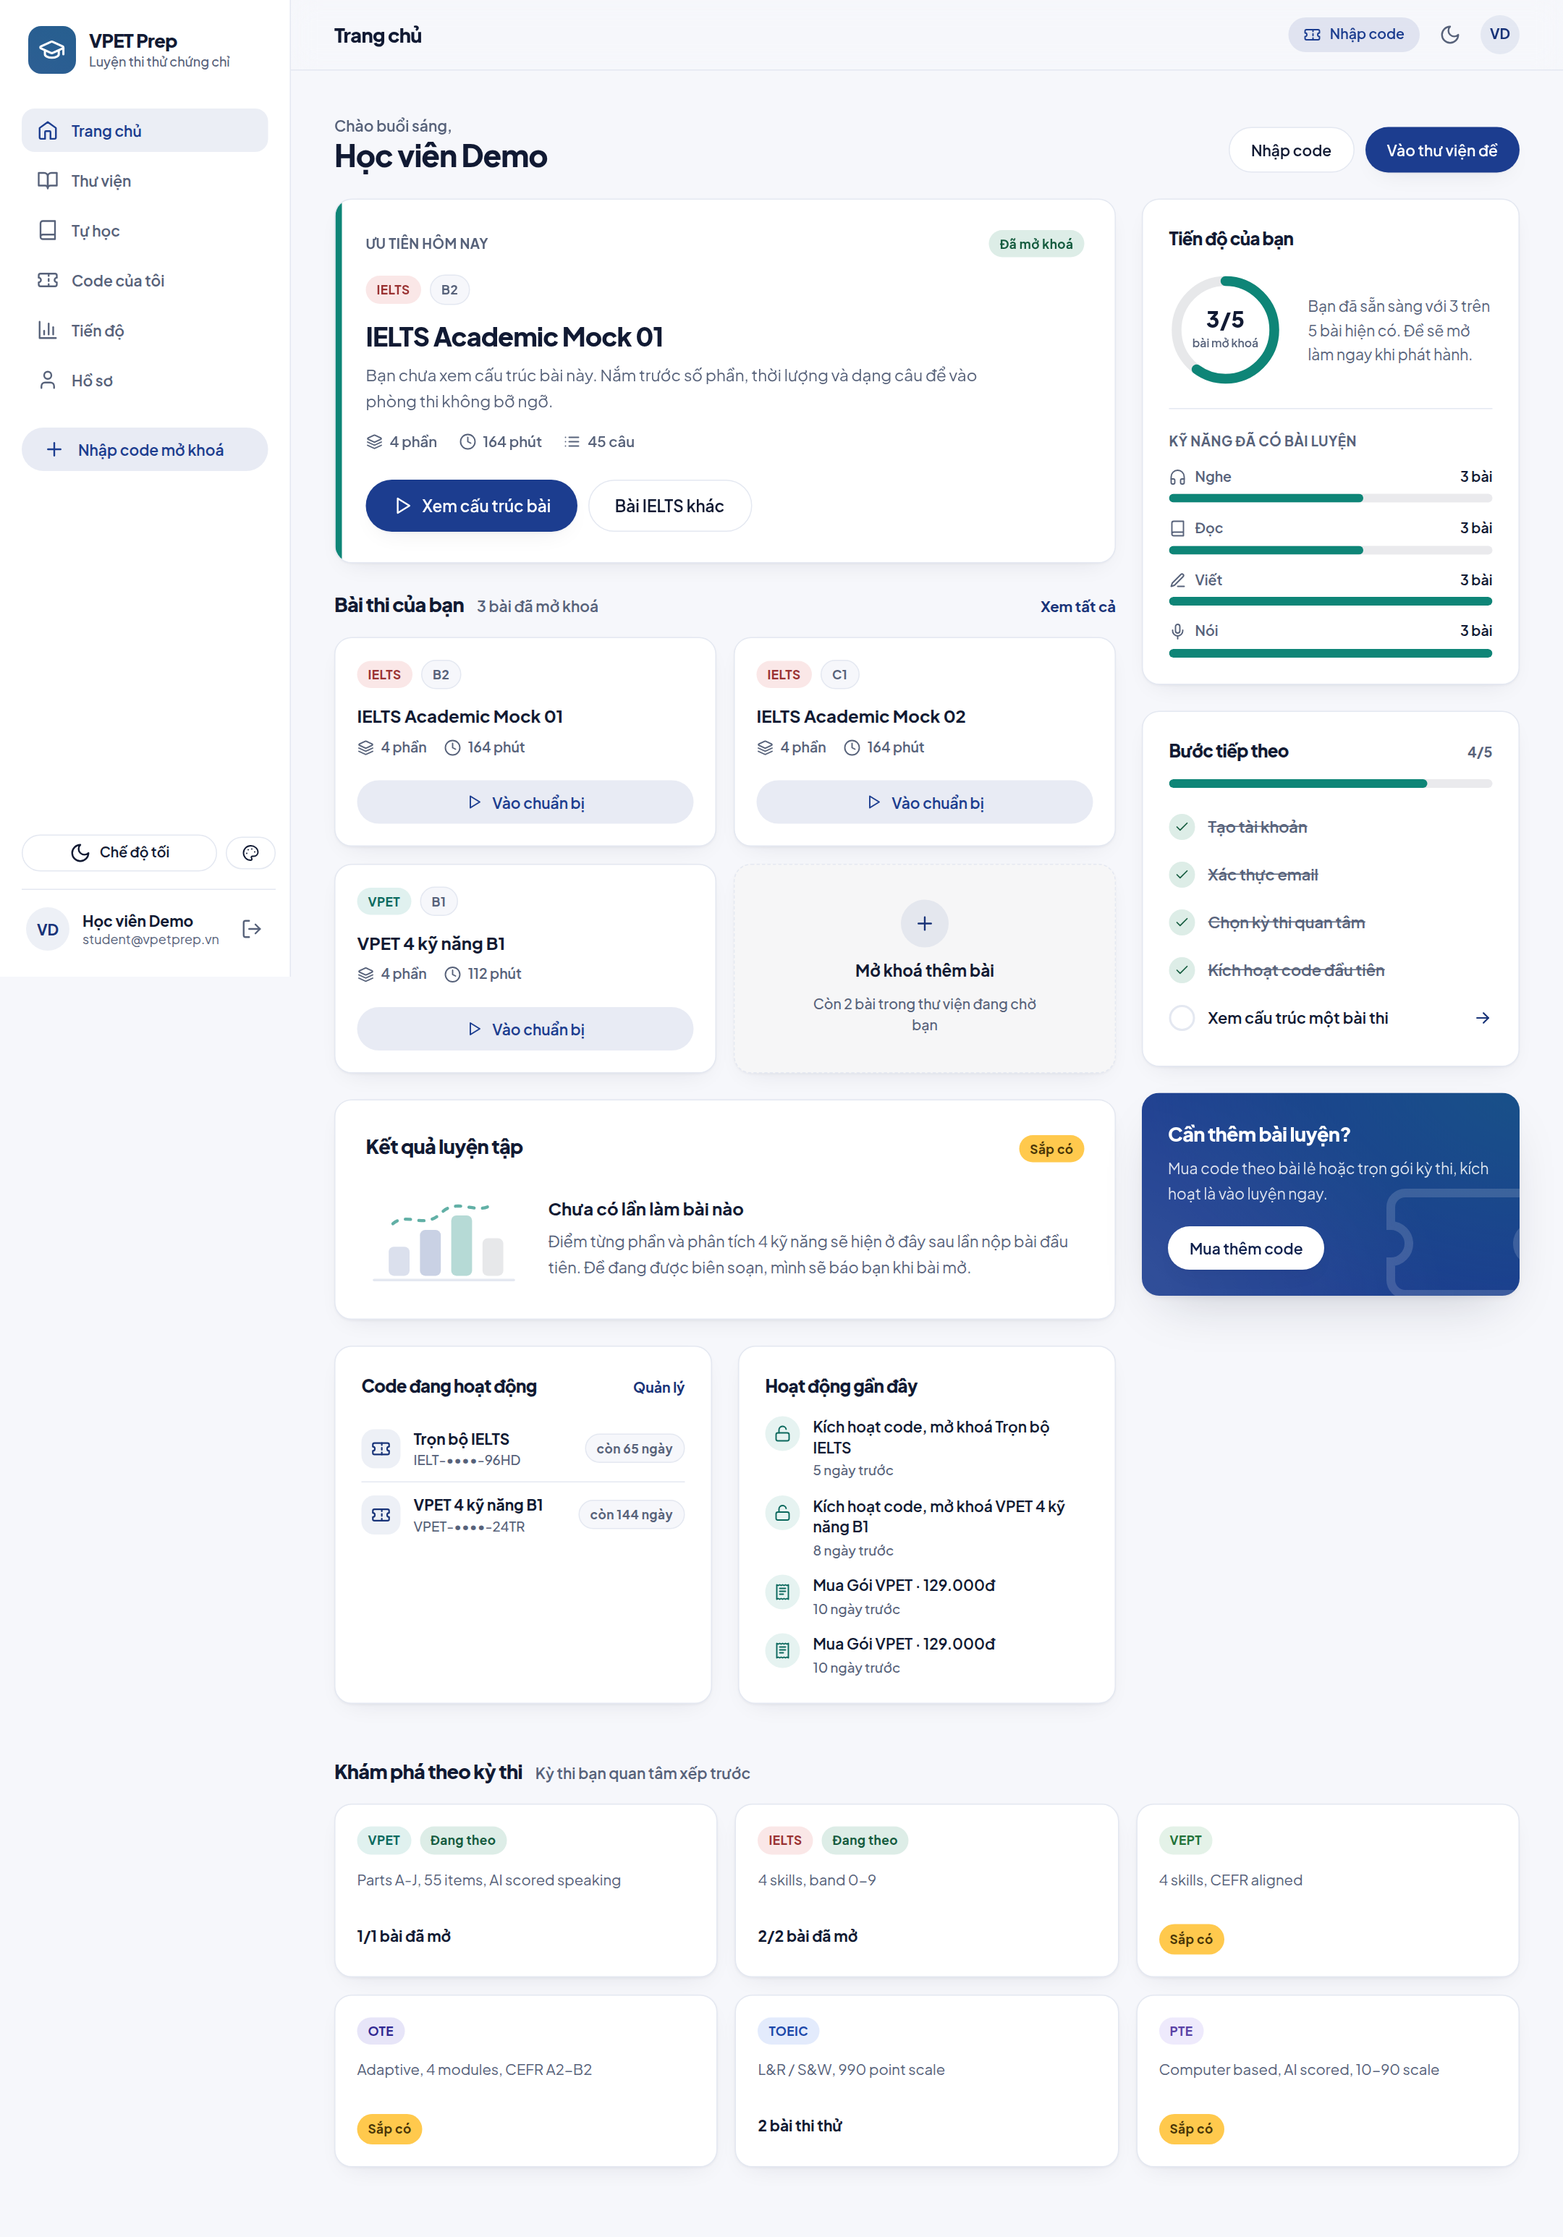
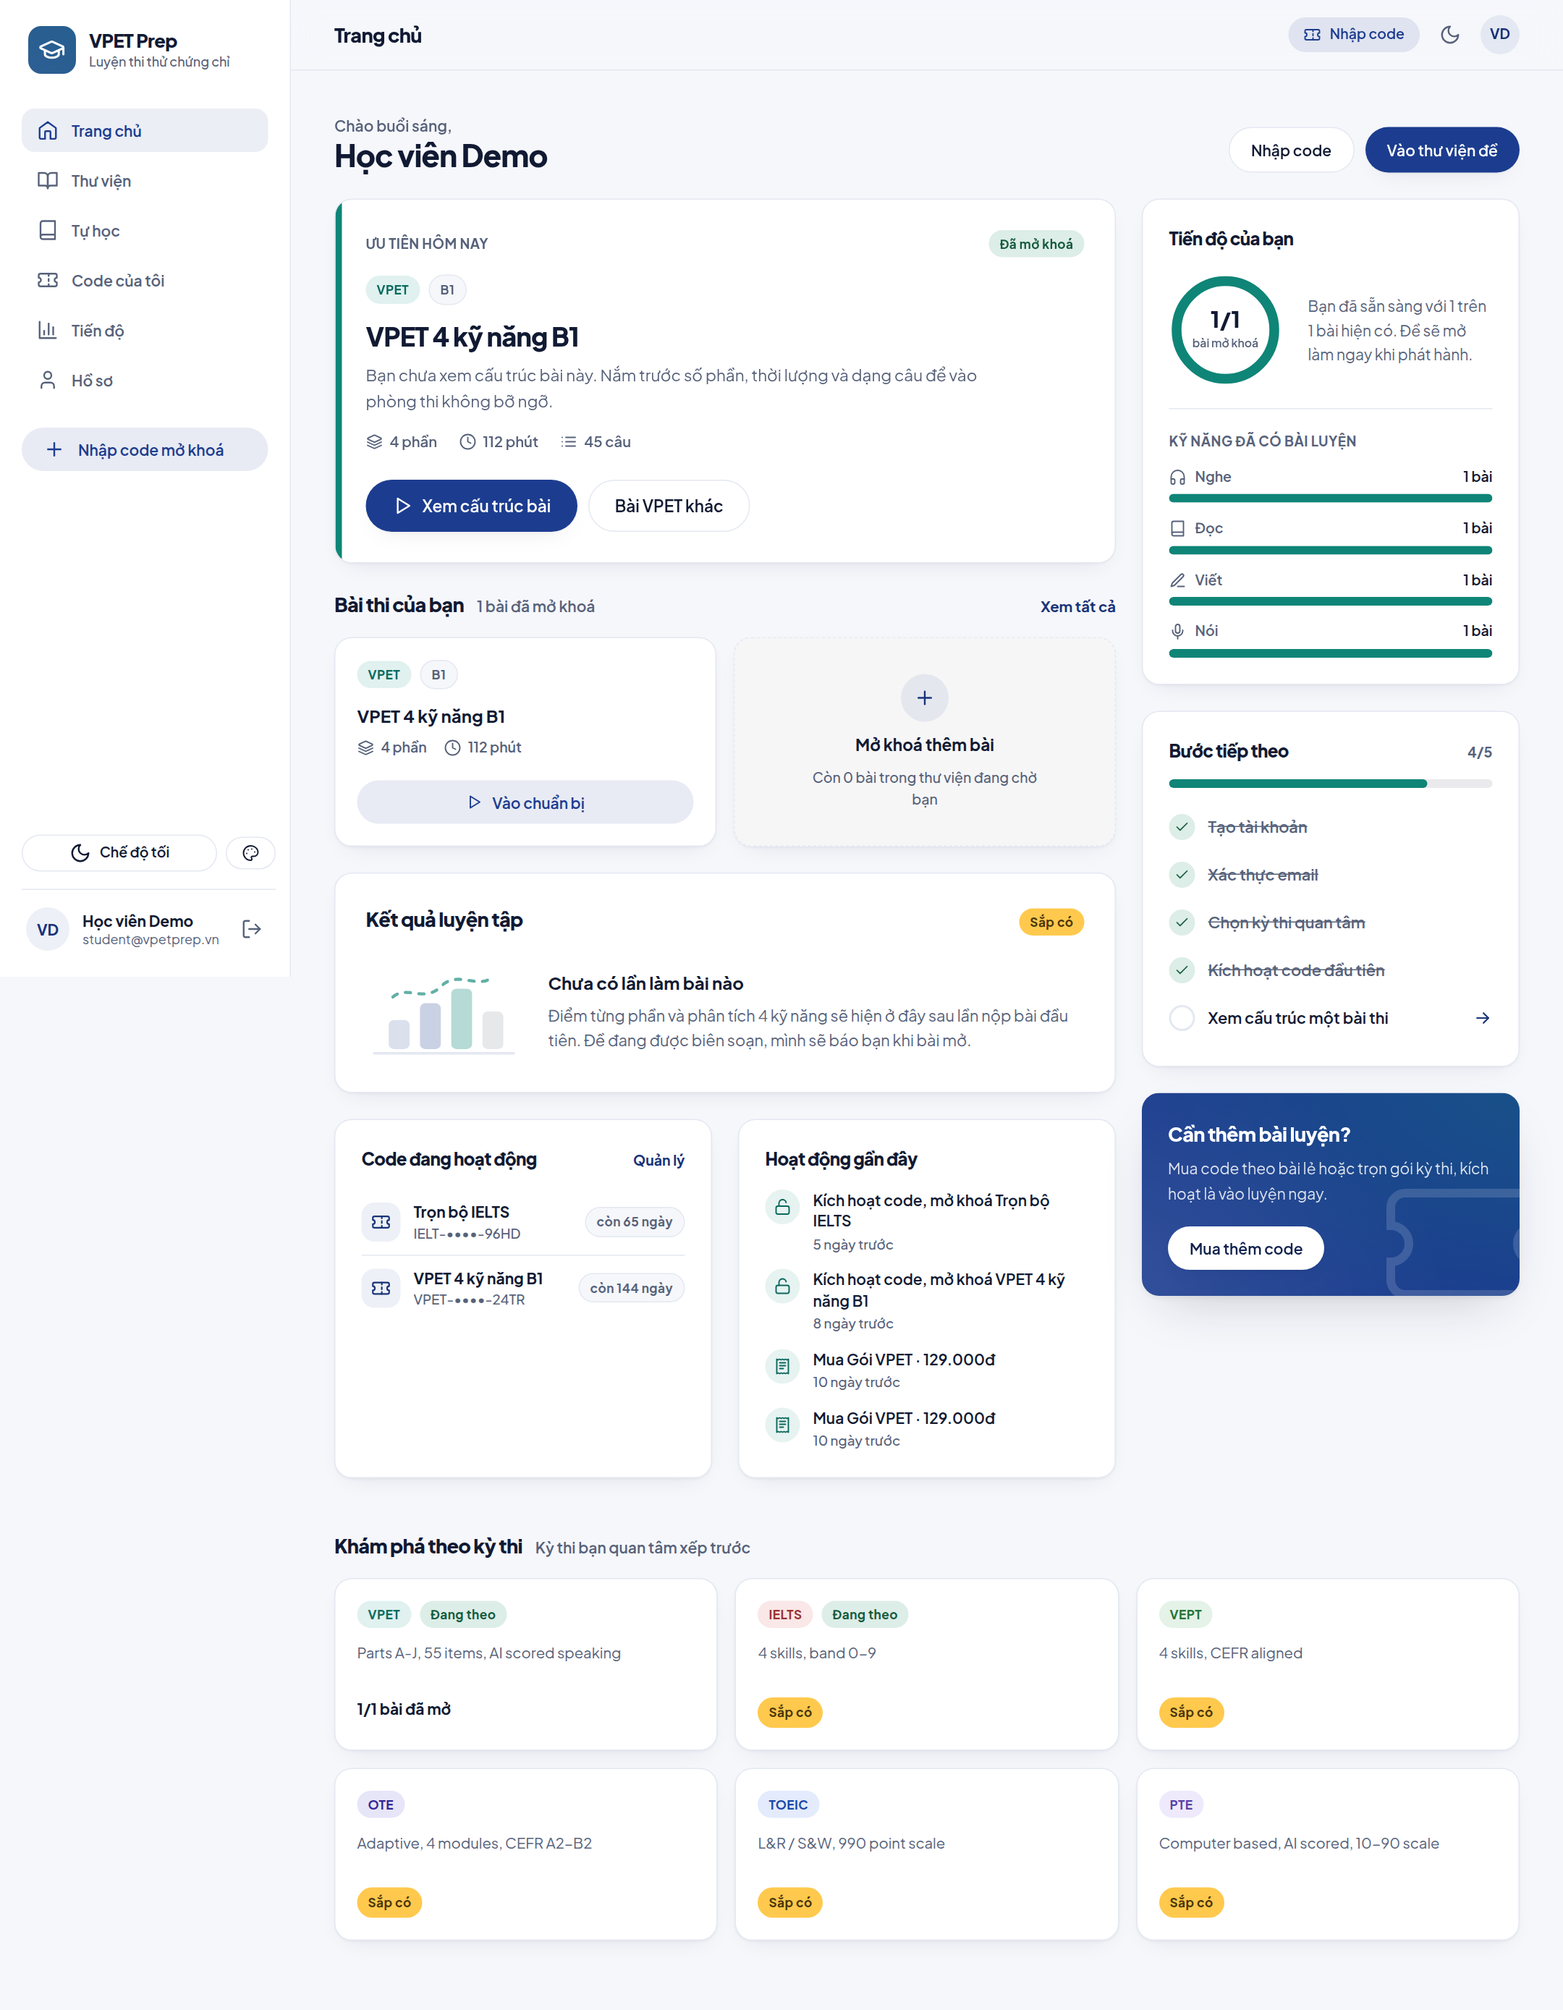
Stop offering anything from a parked exam family
Parking the five non-VPET families gave them a flag but nothing enforced it, so
their tests were still published, still in the student catalogue and still for
sale. The flag is now enforced in four places:

- Seeded IELTS and TOEIC tests start as drafts rather than published.
- On boot, any published test belonging to a parked family is pulled back to
  draft, with a console warning. Seeds only run against an empty table, so
  without this an existing database would keep serving tests published before
  the family was parked - the exact thing parking was meant to stop.
- POST /admin/tests/:id/status refuses to publish a test from a parked family,
  and says which file to edit to open the family.
- Packages for parked families are deactivated, so the shop cannot take money
  for an unlock that resolves to nothing. Reversible on purpose: opening a
  family reactivates its package, so this is a rule that holds in both
  directions rather than a one-way switch.

Codes already issued are deliberately untouched. Someone holding a pre-paid
IELTS code keeps the entitlement and the tests appear for them the day IELTS
opens; parking stops new sales, it does not confiscate what was bought.

The admin dashboard no longer raises "people are interested but there is
nothing to sell" for parked families - having no published test is the
intended state there, not a job to chase.

One test went red and it was right to: redeeming the seeded IELTS family code
[…]

diff --git a/server/db.js b/server/db.js
@@ -389,27 +389,27 @@ const SEED_TESTS = [
            'Bài Viết và Nói được chấm tự động, trả kết quả kèm nhận xét.'],
     sections:[['Listening','listening','Trắc nghiệm',25],['Reading','reading','Trắc nghiệm',35],
               ['Writing','writing','Tự luận',40],['Speaking','speaking','Ghi âm',12]] },
-  { id:'ielts-ac-01', family:'ielts', title:'IELTS Academic Mock 01', level:'B2', dur:164, status:'published',
+  { id:'ielts-ac-01', family:'ielts', title:'IELTS Academic Mock 01', level:'B2', dur:164, status:'draft',
     scoring:'Band 0-9, làm tròn 0.5',
     guide:['Phần Nghe chỉ phát 1 lần, hãy đọc trước câu hỏi.',
            'Writing Task 2 chiếm 2/3 điểm phần Viết.',
            'Speaking mô phỏng phỏng vấn 3 part, trả lời theo đồng hồ.'],
     sections:[['Listening','listening','Trắc nghiệm + điền từ',30],['Reading','reading','Đọc hiểu học thuật',60],
               ['Writing','writing','Task 1 + Task 2',60],['Speaking','speaking','3 part, ghi âm',14]] },
-  { id:'ielts-ac-02', family:'ielts', title:'IELTS Academic Mock 02', level:'C1', dur:164, status:'published',
+  { id:'ielts-ac-02', family:'ielts', title:'IELTS Academic Mock 02', level:'C1', dur:164, status:'draft',
     scoring:'Band 0-9, làm tròn 0.5',
     guide:['Đề nâng cao: từ vựng học thuật dày hơn Mock 01.',
            'Phân bổ 20 phút cho mỗi passage phần Đọc.',
            'Speaking part 3 hỏi sâu quan điểm, luyện trả lời có cấu trúc.'],
     sections:[['Listening','listening','Trắc nghiệm + điền từ',30],['Reading','reading','Đọc hiểu học thuật',60],
               ['Writing','writing','Task 1 + Task 2',60],['Speaking','speaking','3 part, ghi âm',14]] },
-  { id:'toeic-lr-01', family:'toeic', title:'TOEIC Listening & Reading 01', level:'B1', dur:120, status:'published',
+  { id:'toeic-lr-01', family:'toeic', title:'TOEIC Listening & Reading 01', level:'B1', dur:120, status:'draft',
     scoring:'Thang 10-990 (mỗi phần 5-495)',
     guide:['Không có điểm trừ, đừng bỏ trống câu nào.',
            'Part 7 chiếm nhiều thời gian nhất, làm Part 5-6 thật nhanh.',
            'Đồng hồ chung cho cả phần Đọc, tự phân bổ thời gian.'],
     sections:[['Listening','listening','Part 1-4, trắc nghiệm',45],['Reading','reading','Part 5-7, trắc nghiệm',75]] },
-  { id:'toeic-lr-02', family:'toeic', title:'TOEIC Listening & Reading 02', level:'B2', dur:120, status:'published',
+  { id:'toeic-lr-02', family:'toeic', title:'TOEIC Listening & Reading 02', level:'B2', dur:120, status:'draft',
     scoring:'Thang 10-990 (mỗi phần 5-495)',
     guide:['Đề mô phỏng độ khó kỳ thi thật từ 2024 trở lại đây.',
            'Luyện kỹ dạng đoạn đôi / đoạn ba ở Part 7.',
@@ -552,6 +552,30 @@ function seed() {
       ins.run(id, name, price, fam, desc, JSON.stringify(perks), feat, sort);
     }
   }
+
+  /* A parked family must not have anything on sale. Seeds above only run on an
+     empty table, so an existing database needs the rule applied directly —
+     otherwise tests published before a family was parked stay in the
+     catalogue and students can still buy them. */
+  const pulled = q.run(`UPDATE tests SET status='draft', updated_at=?
+                         WHERE status='published'
+                           AND family_id IN (SELECT id FROM families WHERE status='coming_soon')`, at);
+  if (pulled.changes) {
+    console.warn(`[seed] ${pulled.changes} đề của kỳ thi chưa sẵn sàng đã chuyển về nháp.`);
+  }
+
+  /* Same rule for the shop: a package for a parked family would take money and
+     unlock nothing, since that family has no published test. Deactivating is
+     reversible — opening the family again reactivates its package — so this
+     stays correct in both directions rather than being a one-way switch.
+
+     Codes already issued are deliberately left alone: someone holding a
+     pre-paid code keeps their entitlement, and the tests appear for them the
+     day that family opens. Parking stops new sales, it does not confiscate. */
+  q.run(`UPDATE packages SET active=0
+          WHERE active=1 AND family_id IN (SELECT id FROM families WHERE status='coming_soon')`);
+  q.run(`UPDATE packages SET active=1
+          WHERE active=0 AND family_id IN (SELECT id FROM families WHERE status='ready')`);
 
   if (!q.val('SELECT COUNT(*) c FROM questions')) seedQuestions();
 

diff --git a/server/api.js b/server/api.js
@@ -194,7 +194,7 @@ router.get('/admin/reports', (req, res) => {
   }
 
   const byFamily = q.all(`
-    SELECT f.id, f.name,
+    SELECT f.id, f.name, f.status,
            (SELECT COUNT(*) FROM tests t WHERE t.family_id=f.id) tests,
            (SELECT COUNT(*) FROM tests t WHERE t.family_id=f.id AND t.status='published') published,
            (SELECT COUNT(*) FROM questions qq WHERE qq.family_id=f.id AND qq.status='active') questions,
@@ -234,7 +234,9 @@ router.get('/admin/reports', (req, res) => {
      đường dẫn tới đúng màn xử lý để không phải tự đi tìm. */
   const todo = [];
 
-  const thieuDe = byFamily.filter(f => f.interested > 0 && f.published === 0);
+  /* Only families that are actually open for business. A parked one having no
+     published test is the intended state, not a problem to chase. */
+  const thieuDe = byFamily.filter(f => f.status !== 'coming_soon' && f.interested > 0 && f.published === 0);
   if (thieuDe.length) {
     todo.push({
       sev: 'cao',
@@ -566,7 +568,7 @@ router.get('/admin/exam-formats', (req, res) => {
   const list = EXAM_FORMATS.FORMATS
     .filter(f => !familyId || f.familyId === familyId)
     .map(f => {
-      const fam = q.get('SELECT name FROM families WHERE id=?', f.familyId);
+      const fam = q.get('SELECT name, status FROM families WHERE id=?', f.familyId);
       const sections = f.sections.map(s => {
         const bank = bankCount(f.familyId, s.skill, s.types, level);
         const have = strict ? bank.exact : bank.total;
@@ -587,6 +589,7 @@ router.get('/admin/exam-formats', (req, res) => {
       const audioShort = sections.reduce((a, s) => a + (s.audio ? s.audio.short : 0), 0);
       return {
         id: f.id, familyId: f.familyId, familyName: fam ? fam.name : f.familyId,
+        familyStatus: fam ? (fam.status || 'ready') : 'ready',
         name: f.name, kind: f.kind, levels: f.levels,
         scoring: f.scoring, guide: f.guide, notes: f.notes,
         totalItems: EXAM_FORMATS.totalItems(f), totalMinutes: EXAM_FORMATS.totalMinutes(f),
@@ -705,6 +708,14 @@ router.post('/admin/tests/:id/status', (req, res) => {
   if (!t) return res.status(404).json({ error: 'Không tìm thấy đề.' });
 
   if (status === 'published') {
+    /* The platform is only selling VPET right now. Letting a parked family's
+       test go live would put it in the catalogue and on sale, which is the
+       one thing parking it was meant to prevent. */
+    const fam = q.get('SELECT name, status FROM families WHERE id=?', t.familyId);
+    if (fam && fam.status === 'coming_soon') {
+      return bad(res, fam.name + ' đang ở trạng thái chưa sẵn sàng nên không phát hành đề được. '
+        + 'Mở kỳ thi này trong server/db.js (FAMILIES) trước đã.');
+    }
     if (!t.sections.length) return bad(res, 'Đề chưa có phần nào, không phát hành được.');
     const empty = t.sections.filter(s => !s.items.length).map(s => s.name);
     if (empty.length) return bad(res, 'Các phần sau chưa có câu hỏi: ' + empty.join(', '));

diff --git a/scripts/test-taikhoan.js b/scripts/test-taikhoan.js
@@ -147,6 +147,38 @@ try {
   try { cli('xoa-het-du-lieu'); } catch (e) { choiLenhLa = true; }
   ok(choiLenhLa, 'Lệnh không hợp lệ bị từ chối');
 
+  /* 13. Kỳ thi chưa sẵn sàng thì không được có đề đang bán.
+     Đây là luật áp lúc khởi động, nên phải thử đúng cách nó xảy ra thật: đẩy
+     một đề của kỳ thi đã park lên 'published' bằng SQL, rồi khởi động lại và
+     xem nó có bị kéo về nháp không. */
+  const kyThiPark = chay(
+    "const{q}=require('./server/db');" +
+    "console.log(q.val(\"SELECT f.id FROM families f WHERE f.status='coming_soon' " +
+    "AND EXISTS (SELECT 1 FROM tests t WHERE t.family_id=f.id) ORDER BY f.sort LIMIT 1\") || '')"
+  ).trim();
+  ok(!!kyThiPark, 'Có kỳ thi chưa sẵn sàng nhưng vẫn còn đề trong CSDL', kyThiPark);
+
+  const daDay = chay(
+    "const{q}=require('./server/db');" +
+    "const id=q.val(\"SELECT id FROM tests WHERE family_id=? LIMIT 1\", '" + kyThiPark + "');" +
+    "if(id){q.run(\"UPDATE tests SET status='published' WHERE id=?\", id);console.log(id)}else{console.log('')}"
+  ).trim();
+  ok(!!daDay, 'Dựng được tình huống đề của kỳ thi chưa sẵn sàng bị phát hành', daDay);
+
+  const conBan = chay(
+    "const{q}=require('./server/db');" +
+    "console.log(q.val(\"SELECT COUNT(*) c FROM tests t JOIN families f ON f.id=t.family_id " +
+    "WHERE t.status='published' AND f.status='coming_soon'\"))"
+  ).trim();
+  ok(conBan === '0', 'Khởi động lại kéo đề của kỳ thi chưa sẵn sàng về nháp', conBan + ' đề còn đang bán');
+
+  const vpetConNguyen = chay(
+    "const{q}=require('./server/db');" +
+    "console.log(q.val(\"SELECT COUNT(*) c FROM tests t JOIN families f ON f.id=t.family_id " +
+    "WHERE t.status='published' AND f.status='ready'\"))"
+  ).trim();
+  ok(Number(vpetConNguyen) > 0, 'Đề của kỳ thi đang mở không bị đụng tới', vpetConNguyen);
+
 } finally {
   fs.rmSync(thuMuc, { recursive: true, force: true });
 }

diff --git a/docs/ROADMAP.md b/docs/ROADMAP.md
@@ -50,7 +50,8 @@ Queue for this track, in order:
 - [x] MP3 upload in the admin question bank: storage adapter (disk + Supabase driver), raw-body upload behind requireAdmin + CSRF with magic-byte validation, player and replace/remove on each item, and per-part audio coverage in the format readiness report
 - [x] **Google Sign-In** — server-side OAuth 2.0 redirect (`/auth/google`, `/auth/google/callback`), no external script so the CSP is untouched; state + nonce, issuer/audience/expiry checks, open-redirect guard, links onto an existing account by verified email, and stays hidden until `GOOGLE_CLIENT_ID` / `GOOGLE_CLIENT_SECRET` are set
 - [x] **PWA** — manifest with maskable icons rendered from the brand SVG, service worker caching only the shell (never `/api`, never a signed-in page), offline screen, installable from Chrome on Android without a Play listing
-- [ ] Stop offering non-VPET tests: seeded IELTS/TOEIC tests drop to draft, and the API refuses to publish a test whose family is `coming_soon`
+- [x] Stop offering non-VPET tests: seeded IELTS/TOEIC tests seed as drafts, boot pulls any already-published test of a parked family back to draft, the API refuses to publish one, and the dashboard stops raising "nothing to sell" for parked families
+- [ ] Shop copy follow-up: `pk-combo` still offers "any two exams" while only VPET is open, and `pk-single` implies a choice of tests when there is one. Rewrite both when the interface is translated
 - [ ] Tag items by VPET part: `questions.part` (A-J) so each part draws from its own pool instead of sharing one skill-wide pool
 - [ ] VPET exam engine: per-part timer, audio playback with a fixed replay count, microphone capture for parts H/I/J, autosave and submit
 - [ ] AI speaking scoring: adapter around an audio-native model, VPET rubric (fluency, pronunciation, vocabulary, grammar, task), score plus written feedback, reviewer override, and a manual-scoring fallback while no API key is set

diff --git a/README.md b/README.md
@@ -79,6 +79,18 @@ chưa dựng đề. Cờ này nằm trong CSDL, trả ra ở `GET /api/catalog`,
 cách sửa `FAMILIES` trong `server/db.js` — bảng `families` được đồng bộ lại mỗi
 lần khởi động.
 
+Cờ đó được **thi hành ở ba chỗ**, không chỉ là nhãn hiển thị:
+
+1. Đề seed của kỳ thi đang park nằm ở trạng thái nháp ngay từ đầu.
+2. Mỗi lần khởi động, đề nào của kỳ thi đang park mà lỡ đang phát hành sẽ bị kéo
+   về nháp và ghi cảnh báo ra console — CSDL cũ cũng phải tuân luật, không chỉ
+   CSDL mới.
+3. `POST /api/admin/tests/:id/status` từ chối phát hành đề thuộc kỳ thi đang
+   park, kèm chỉ dẫn phải mở kỳ thi trong `FAMILIES` trước.
+
+Bảng "Việc cần làm" ở màn Tổng quan cũng bỏ qua các kỳ thi đang park: chúng
+không có đề đang bán là **đúng ý đồ**, không phải việc cần xử lý.
+
 #### Format VPET — 10 phần, 55 câu
 
 | Phần | Task | Số câu | Kỹ năng | Cần MP3 |
